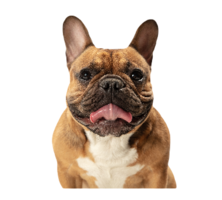
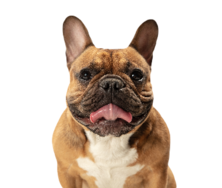
Refactored header

Changed region(s): [[0.2162, 0.0798, 0.8108, 1.0], [0.2703, 0.0798, 0.4054, 0.1862], [0.4865, 0.8511, 0.5135, 0.8777]]

diff --git a/src/components/Header/Header.jsx b/src/components/Header/Header.jsx
@@ -1,5 +1,5 @@
 import React from 'react';
-import dogHeader from '../../img/dogHeader.png';
+import dogHeader from '../../img/dogHeader.png'
 import { useHistory } from 'react-router';
 
 function Header(props) {
@@ -18,7 +18,8 @@ function Header(props) {
   
   return (
     <div className="headerComponent">
-      <img className="dogHeader" src={dogHeader} alt="dogHeader" onClick={goToBeginning}/>
+      <div className="space-header"></div>
+      <img className="dog-header" src={dogHeader} alt="dog-header" onClick={goToBeginning}/>
       <div className="title">Dog Lovers</div>
     </div>
   )

diff --git a/src/css/index.css b/src/css/index.css
@@ -618,9 +618,12 @@ input:not(:focus):valid ~ .floatingLabel {
   display: flex;
   flex-direction: row; }
 
-.dogHeader {
+.space-header {
+  width: 10%; }
+
+.dog-header {
+  display: flex;
   width: 10%;
-  margin-left: 30px;
   cursor: pointer; }
 
 .title {
@@ -630,12 +633,6 @@ input:not(:focus):valid ~ .floatingLabel {
   justify-content: flex-start;
   margin: auto;
   font-size: 100px; }
-
-.loginHeader {
-  width: 100%;
-  display: flex;
-  flex-direction: row-reverse;
-  margin-right: 20px; }
 
 .navbarComponent {
   width: 100%;

diff --git a/src/components/Header/_Header.scss b/src/components/Header/_Header.scss
@@ -5,11 +5,13 @@
   flex-direction: row;
 };
 
-.dogHeader {
+.space-header {
   width: 10%;
-  margin-left: 30px;
+}
+.dog-header {
+  display: flex;
+  width: 10%;
   cursor: pointer;
- 
 };
 
 .title {
@@ -21,9 +23,3 @@
   font-size: 100px;
 };
 
-.loginHeader {
-  width: 100%;
-  display: flex;
-  flex-direction: row-reverse;
-  margin-right: 20px;
-};
